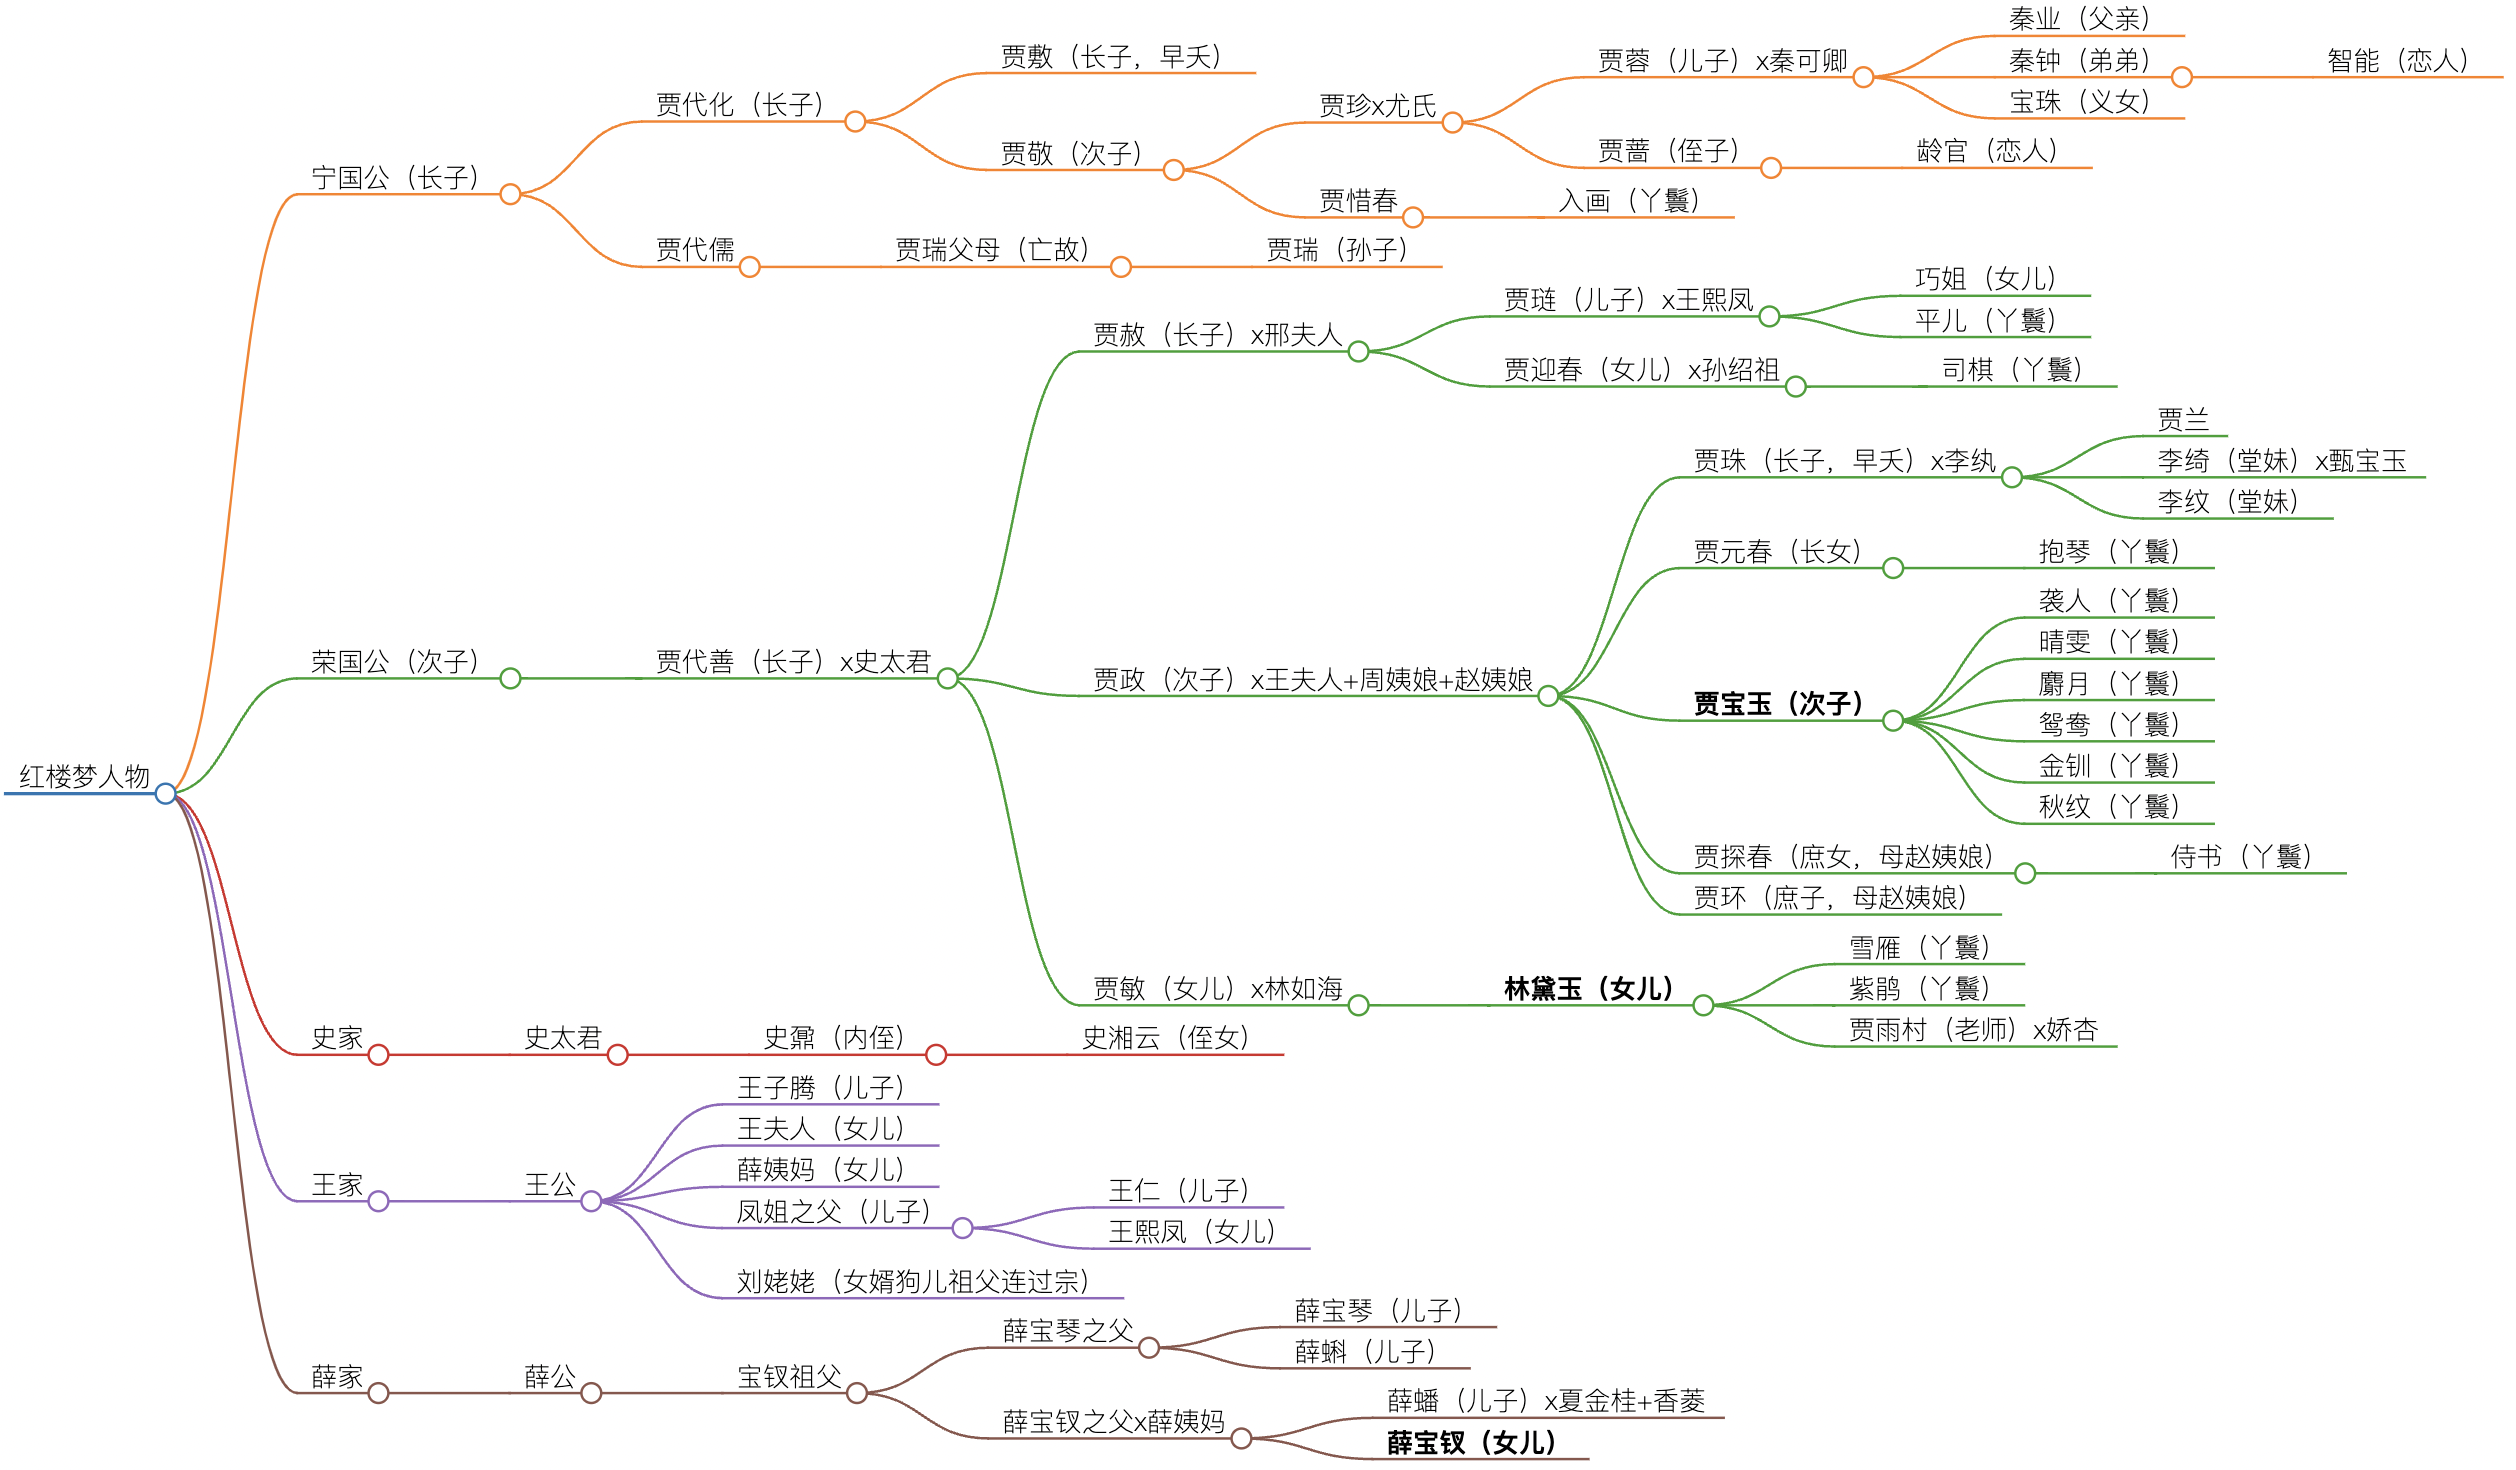
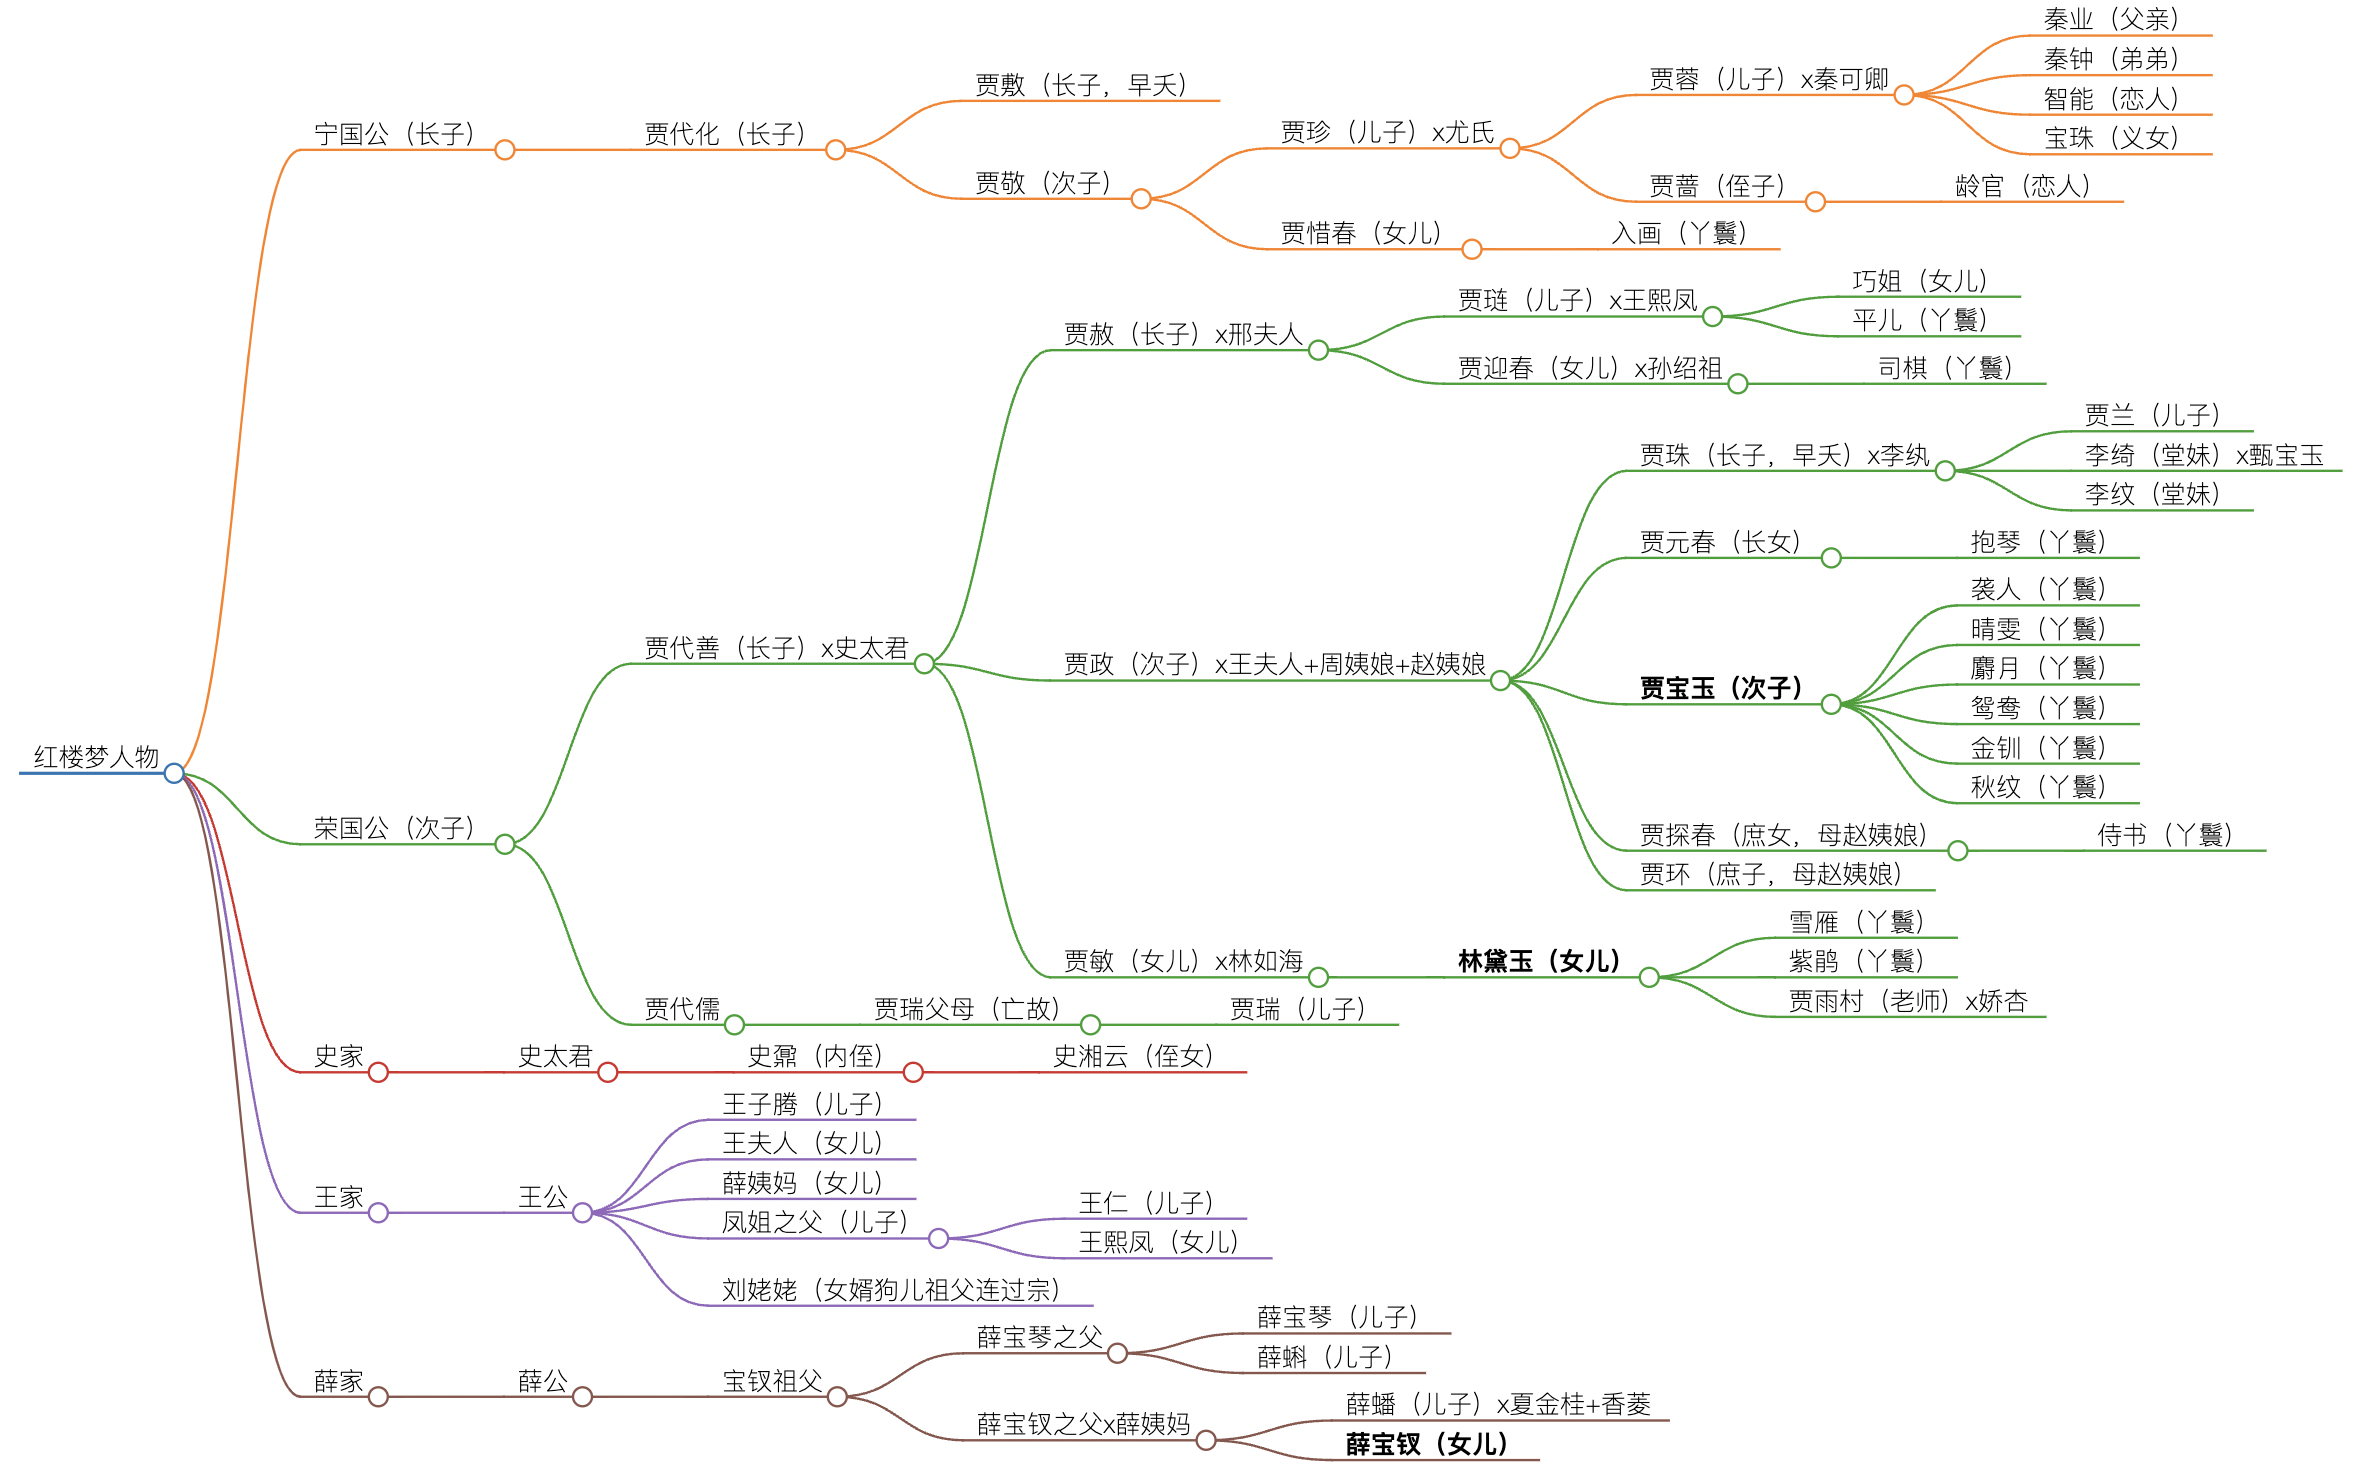
sync from discussion

diff --git a/source/_posts/红楼梦人物关系图谱.md b/source/_posts/红楼梦人物关系图谱.md
@@ -15,26 +15,22 @@ tags: [红楼梦]
 #### 贾敷（长子，早夭）
 #### 贾敬（次子）
 
-##### 贾珍x尤氏
+##### 贾珍（儿子）x尤氏
 
 ###### 贾蓉（儿子）x秦可卿
 
 - 秦业（父亲）
 - 秦钟（弟弟）
-    - 智能（恋人）
+- 智能（恋人）
 - 宝珠（义女）
 
 ###### 贾蔷（侄子）
 
 - 龄官（恋人）
 
-##### 贾惜春
+##### 贾惜春（女儿）
 
 - 入画（丫鬟）
-
-### 贾代儒
-#### 贾瑞父母（亡故）
-##### 贾瑞（孙子）
 
 ## 荣国公（次子）
 
@@ -55,7 +51,7 @@ tags: [红楼梦]
 
 ##### 贾珠（长子，早夭）x李纨
 
-###### 贾兰
+###### 贾兰（儿子）
 ###### 李绮（堂妹）x甄宝玉
 ###### 李纹（堂妹）
 
@@ -85,6 +81,10 @@ tags: [红楼梦]
 - 雪雁（丫鬟）
 - 紫鹃（丫鬟）
 - 贾雨村（老师）x娇杏
+
+### 贾代儒
+#### 贾瑞父母（亡故）
+##### 贾瑞（儿子）
 
 ## 史家
 
